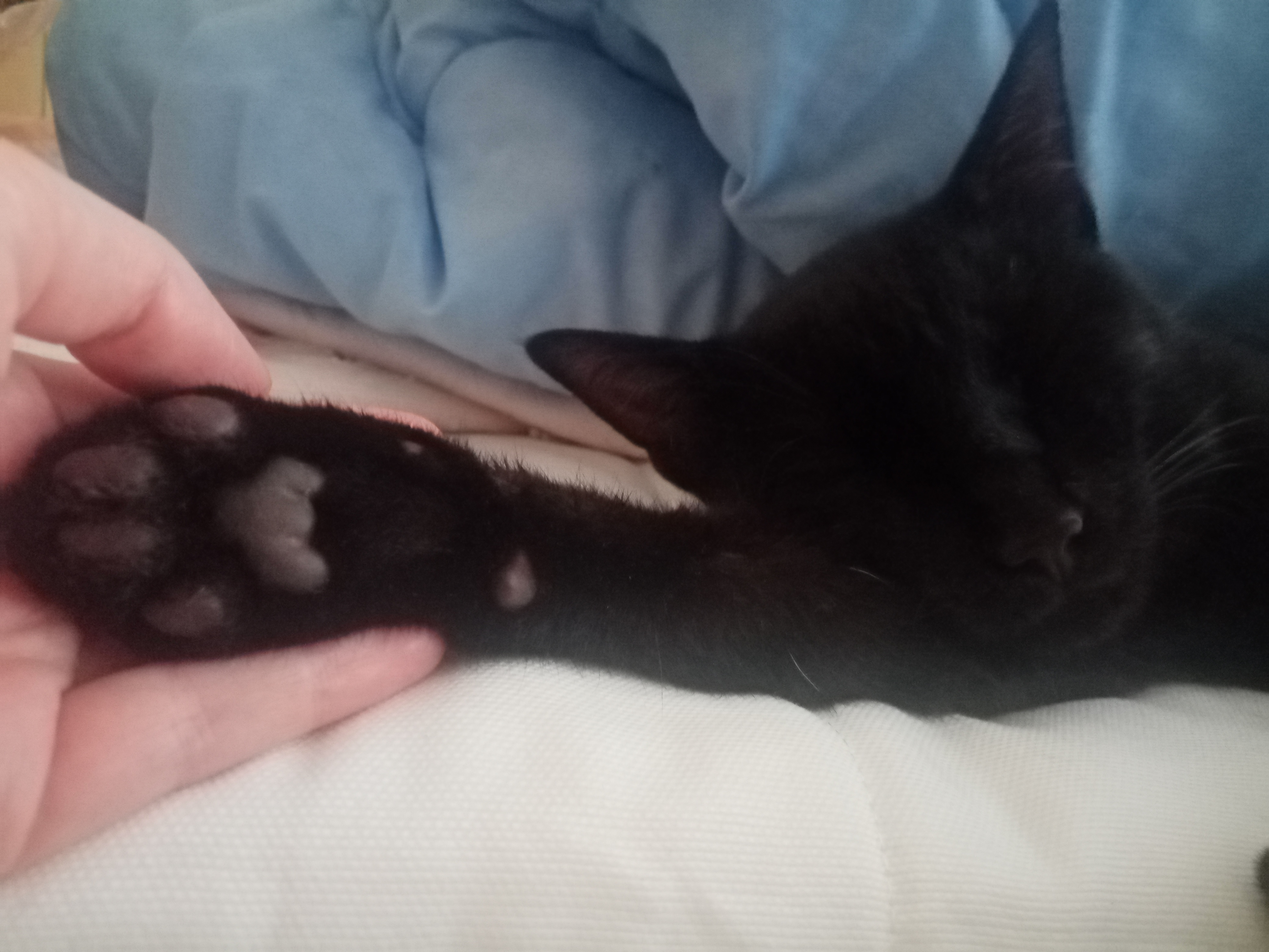
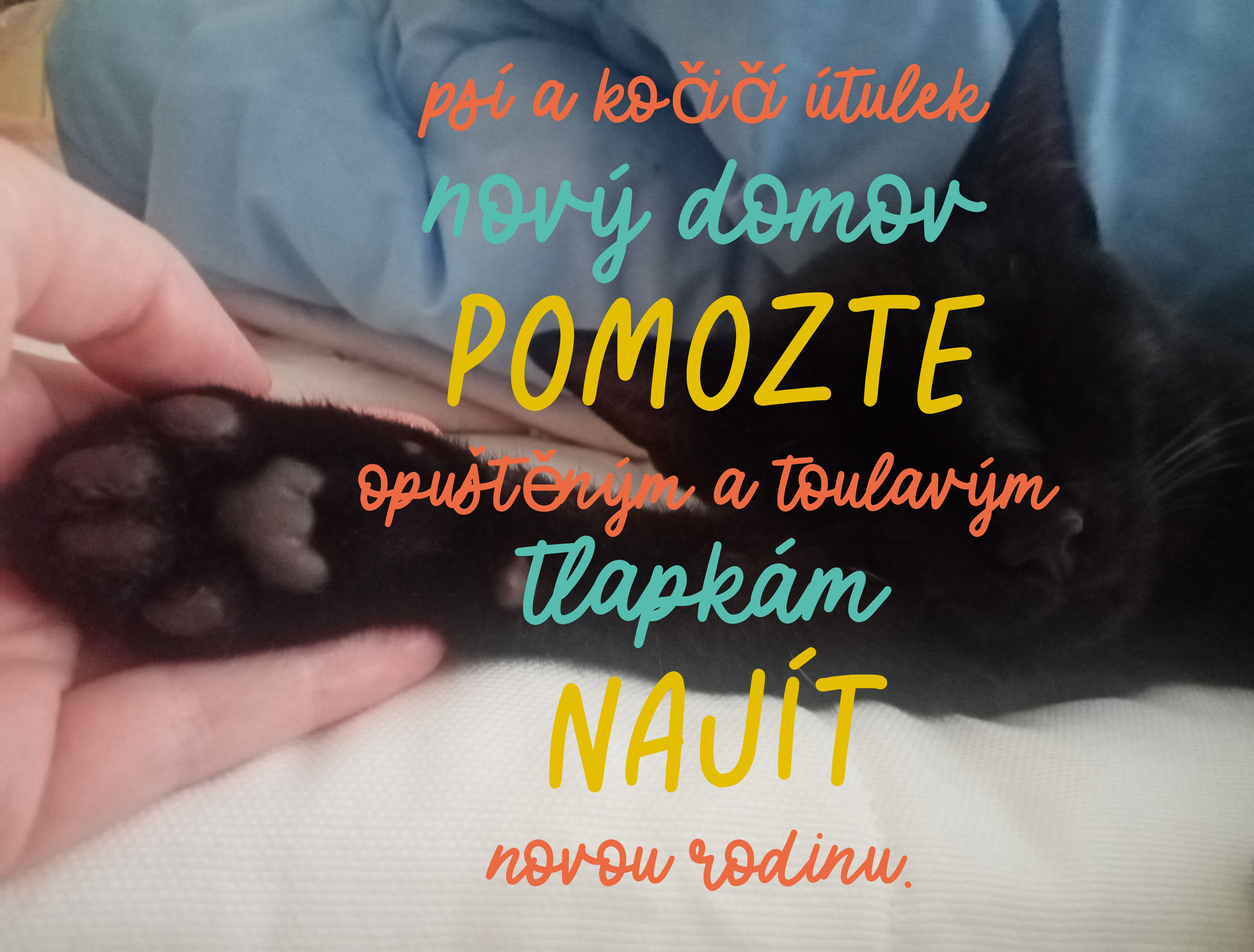
Sloučení .html a úprava fotografie

diff --git a/index.html b/index.html
@@ -7,8 +7,11 @@
     <title>Psí a kočičí útulek</title>
 </head>
 <body>
-    <h1>Psí a kočičí útulek Nový domov.</h1>
-    <img src="shelter-7.jpg" style="width:45%;" alt="">
+    <header>
+        <img src="shelter-7.jpg" style="width:100%;" alt="Psí a kočičí útulek ">
+    </header>
+    <h1>Psí a kočičí útulek <br> Nový domov </h1>
+   
     <p>Naším posláním je najít nový, milující domov pro opuštěné psy a kočky.</p>
     <p>Prohlédněte si naši aktuální nabídku zvířátek k adopci,  
         přečtěte si, jak můžete pomoci, nebo nás rovnou kontaktujte. <br> Každá pomoc se počítá – ať už jde o domov, dobrovolnictví nebo podporu.</p>
